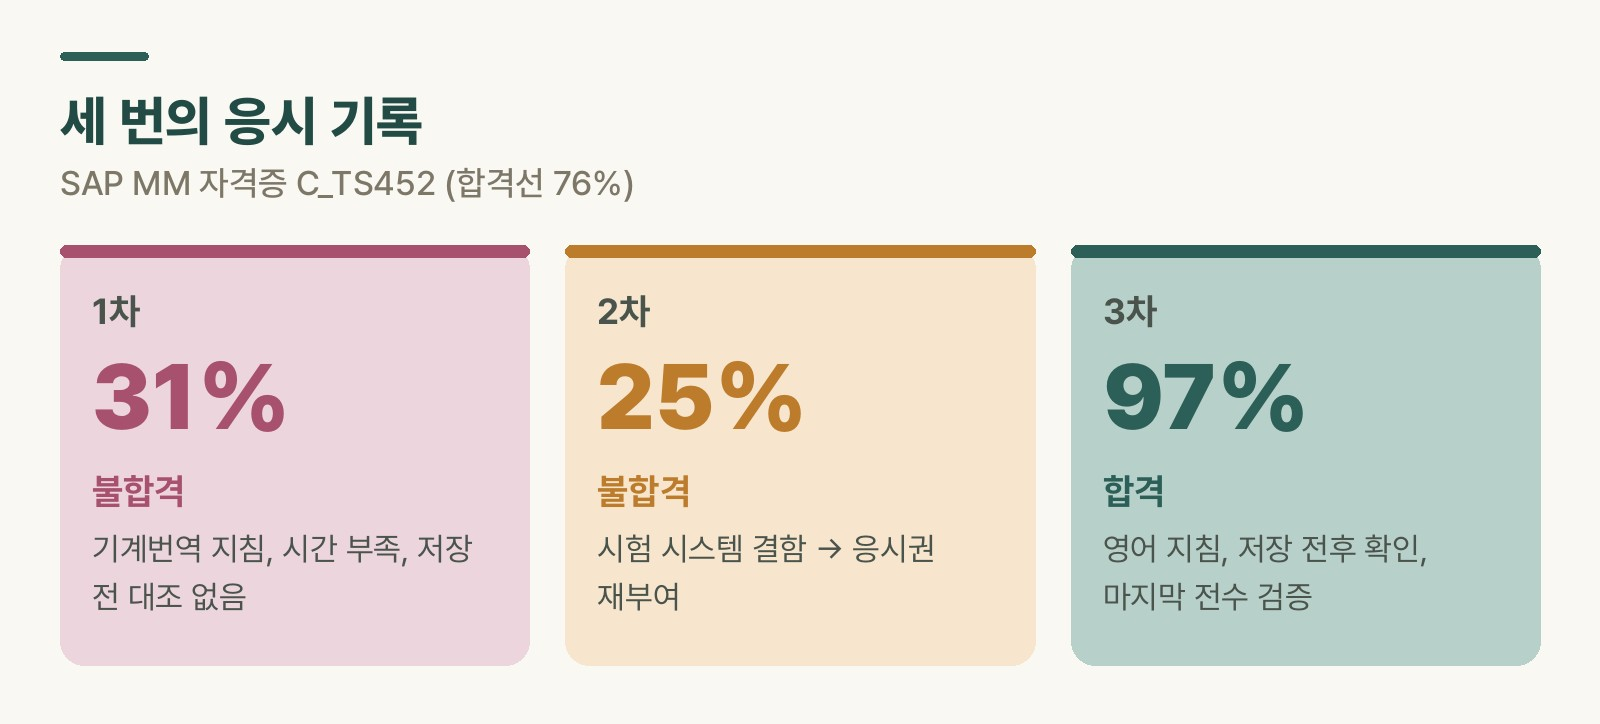
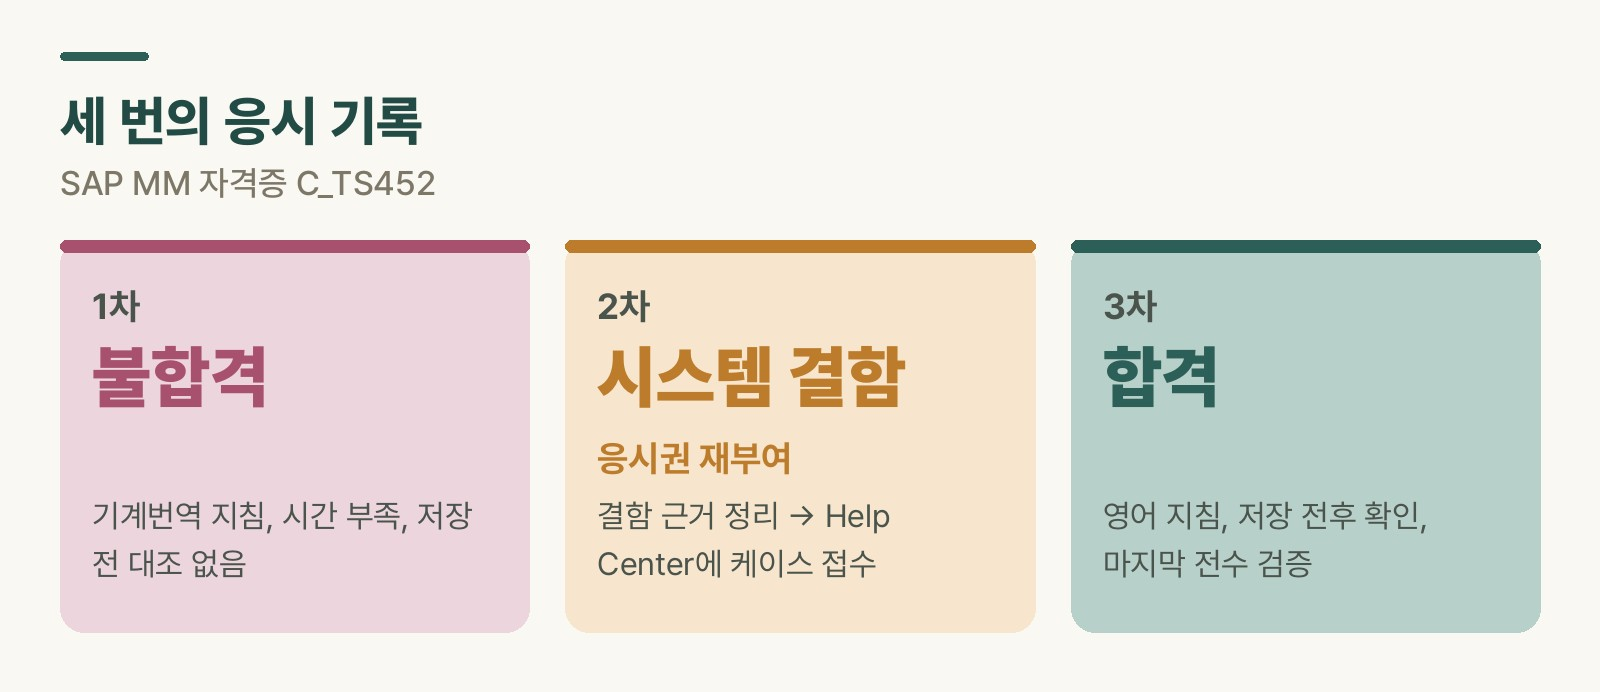
SAP MM C_TS452 series: drop 1st/2nd attempt scores, before/after diagram, wording fixes (#9)
Claude-Session: https://claude.ai/code/session_013sML9pAEqnrmzvpCSp2NBT

diff --git a/scripts/diagrams/gen_mm_c_ts452.py b/scripts/diagrams/gen_mm_c_ts452.py
@@ -56,79 +56,66 @@ def _wrap(c, text, font, width):
 # ---------------------------------------------------------------- 2편
 T_2_01 = {
     "ko": {
-        "title": "1차 시험이 31%에 그친 이유",
-        "sub": "몰라서가 아니라, 해내지 못해서",
-        "head": ("원인", "무슨 일이 있었나", "그 뒤로 바꾼 것"),
+        "title": "1차 이후 바꾼 세 가지",
+        "sub": "몰라서가 아니라, 해내는 방식이 문제였다",
+        "before": "1차 때", "after": "그 뒤로",
         "rows": [
-            ("기계번역 지침", "번역된 숫자와 구성이 원문과 다르게 읽혔다", "지침은 영어로 읽는다"),
-            ("한 과제에 쏠린 시간", "낯선 설정 화면에서 헤매며 한 과제에 약 100분", "3분 막히면 멈추고 판단, 막힌 화면은 따로 반복"),
-            ("저장 전 대조 없음", "0 하나 더, 필수 필드 누락, 습관대로 한 단계 추가", "Save 전에 지침과 필드를 1:1로 대조한다"),
+            ("지침", "한국어(기계번역) 지침으로 읽었다", "영어 원문 지침으로 읽는다"),
+            ("시간", "막힌 화면 하나를 오래 붙잡았다", "막힌 화면은 따로 모아 반복 연습한다"),
+            ("저장", "Save 후 바로 다음으로 넘어갔다", "저장 전 대조, 저장 후 조회로 확인한다"),
         ],
     },
     "en": {
-        "title": "Why my first attempt scored 31%",
-        "sub": "Not a knowledge gap, but an execution gap",
-        "head": ("Cause", "What happened", "What I changed"),
+        "title": "Three things I changed after the first attempt",
+        "sub": "Not a knowledge gap, but how I executed",
+        "before": "First attempt", "after": "Afterward",
         "rows": [
-            ("Machine-translated instructions",
-             "Numbers and structure read differently from the original",
-             "Read the instructions in English"),
-            ("Time sink",
-             "About 100 minutes lost in unfamiliar configuration screens",
-             "Stuck 3 minutes? Stop and decide; drill weak screens"),
-            ("No check before Save",
-             "An extra zero, a missing field, one step added out of habit",
-             "Compare every field with the instructions before saving"),
+            ("Instructions", "Read the machine-translated Korean version", "Read the original English instructions"),
+            ("Time", "Held on to one stuck screen for too long", "Collect stuck screens and drill them separately"),
+            ("Saving", "Pressed Save and moved straight on", "Check before saving, confirm on display after"),
         ],
     },
 }
 
 
 def build_2_01(lang, out):
-    """1차 31% — 원인 3가지를 '원인 / 무슨 일이 있었나 / 바꾼 것' 미니 표로."""
+    """전/후 비교형 — 1차 때 → 그 뒤로, 항목 3개."""
     t = T_2_01[lang]
-    title, sub, head, rows = t["title"], t["sub"], t["head"], t["rows"]
     W = 800
-    cols = [B.PAD, 250, 520]           # 열 시작 x
-    widths = [cols[1] - cols[0] - 20, cols[2] - cols[1] - 20, W - B.PAD - cols[2]]
+    lab_w = 120 if lang == "en" else 70
+    x_lab = B.PAD
+    x_b = B.PAD + lab_w + 10
+    arrow_w = 34
+    col_w = (W - B.PAD - x_b - arrow_w) / 2
+    x_a = x_b + col_w + arrow_w
     f_head = B.F("Bold", 17)
-    f_cause = B.F("ExtraBold", 19)
-    f_body = B.F("Regular", 17)
+    f_lab = B.F("ExtraBold", 18)
+    f_b = B.F("Regular", 17)
+    f_a = B.F("SemiBold", 17)
     lh = 25
-
     probe = _Canvas(W, 10)
-    wrapped = []
-    for r in rows:
-        cells = [_wrap(probe, r[0], f_cause, widths[0]),
-                 _wrap(probe, r[1], f_body, widths[1]),
-                 _wrap(probe, r[2], B.F("SemiBold", 17), widths[2])]
-        wrapped.append(cells)
-    row_hs = [max(len(x) for x in cells) * lh + 30 for cells in wrapped]
-
-    top = _banner_height(probe, title, sub)
-    head_h = 40
-    H = int(top + head_h + sum(row_hs) + 26)
+    wrapped = [(_wrap(probe, r[1], f_b, col_w - 28), _wrap(probe, r[2], f_a, col_w - 28)) for r in t["rows"]]
+    row_hs = [max(len(b), len(a)) * lh + 28 for b, a in wrapped]
+    top = _banner_height(probe, t["title"], t["sub"])
+    H = int(top + 36 + sum(row_hs) + 12 * len(row_hs) + 20)
     c = _Canvas(W, H)
-    y = B.banner_B(c, title, sub)
-
-    # 헤더
-    for i, h in enumerate(head):
-        col = B.BERRY_S[1] if i == 0 else (B.NEUT_S[1] if i == 1 else B.TEAL_S[1])
-        c.text((cols[i], y + 8), h.upper() if lang == "en" else h, f_head, fill=col)
-    y += head_h
-    c.line([B.PAD, y, W - B.PAD, y], fill=B.NEUT_S[2], width=1.5)
-
-    for (cells, rh) in zip(wrapped, row_hs):
-        ty = y + 15
-        for j, line in enumerate(cells[0]):
-            c.text((cols[0], ty + j * lh), line, f_cause, fill=B.BERRY_S[1])
-        for j, line in enumerate(cells[1]):
-            c.text((cols[1], ty + j * lh), line, f_body, fill=B.NEUT_S[1])
-        for j, line in enumerate(cells[2]):
-            c.text((cols[2], ty + j * lh), line, B.F("SemiBold", 17), fill=B.TEAL_S[1])
-        y += rh
-        c.line([B.PAD, y, W - B.PAD, y], fill=B.NEUT_S[4], width=1)
-
+    y = B.banner_B(c, t["title"], t["sub"])
+    c.text((x_b + 14, y), t["before"], f_head, fill=B.BERRY_S[1])
+    c.text((x_a + 14, y), t["after"], f_head, fill=B.TEAL_S[1])
+    y += 34
+    for (lab, _, _), (bl, al), rh in zip(t["rows"], wrapped, row_hs):
+        c.text((x_lab, y + 14), lab, f_lab, fill=B.NEUT_S[1])
+        c.rect([x_b, y, x_b + col_w, y + rh], fill=B.BERRY_S[5], radius=10)
+        c.rect([x_a, y, x_a + col_w, y + rh], fill=B.TEAL_S[5], radius=10)
+        for j, line in enumerate(bl):
+            c.text((x_b + 14, y + 14 + j * lh), line, f_b, fill=B.BERRY_S[0])
+        for j, line in enumerate(al):
+            c.text((x_a + 14, y + 14 + j * lh), line, f_a, fill=B.TEAL_S[0])
+        ay = y + rh / 2
+        ax0, ax1 = x_b + col_w + 7, x_a - 7
+        c.line([ax0, ay, ax1 - 6, ay], fill=B.NEUT_S[3], width=2)
+        c.polygon([ax1, ay, ax1 - 9, ay - 6, ax1 - 9, ay + 6], fill=B.NEUT_S[3])
+        y += rh + 12
     c.save(out)
 
 
@@ -210,20 +197,20 @@ def build_3_01(lang, out):
 T_0_01 = {
     "ko": {
         "title": "세 번의 응시 기록",
-        "sub": "SAP MM 자격증 C_TS452 (합격선 76%)",
+        "sub": "SAP MM 자격증 C_TS452",
         "cards": [
-            ("1차", "31%", "불합격", "기계번역 지침, 시간 부족, 저장 전 대조 없음", "berry"),
-            ("2차", "25%", "불합격", "시험 시스템 결함 → 응시권 재부여", "gold"),
-            ("3차", "97%", "합격", "영어 지침, 저장 전후 확인, 마지막 전수 검증", "teal"),
+            ("1차", "불합격", "", "기계번역 지침, 시간 부족, 저장 전 대조 없음", "berry"),
+            ("2차", "시스템 결함", "응시권 재부여", "결함 근거 정리 → Help Center에 케이스 접수", "gold"),
+            ("3차", "합격", "", "영어 지침, 저장 전후 확인, 마지막 전수 검증", "teal"),
         ],
     },
     "en": {
         "title": "Three exam attempts",
-        "sub": "SAP MM certification C_TS452 (pass mark 76%)",
+        "sub": "SAP MM certification C_TS452",
         "cards": [
-            ("1st", "31%", "Failed", "Machine translation, no time, no check before saving", "berry"),
-            ("2nd", "25%", "Failed", "Exam system defect, attempt reissued", "gold"),
-            ("3rd", "97%", "Passed", "English instructions, checks around saves, final review", "teal"),
+            ("1st", "Failed", "", "Machine translation, no time, no check before saving", "berry"),
+            ("2nd", "Defect", "Attempt reissued", "Evidence collected, case filed with the Help Center", "gold"),
+            ("3rd", "Passed", "", "English instructions, checks around saves, final review", "teal"),
         ],
     },
 }
@@ -238,12 +225,12 @@ def build_0_01(lang, out):
     gap = 18
     cw = (W - 2 * B.PAD - 2 * gap) / 3
     f_lab = B.F("Bold", 18)
-    f_score = B.F("Black", 46)
+    f_score = B.F("Black", 34)
     f_res = B.F("Bold", 18)
     f_note = B.F("Regular", 16)
     probe = _Canvas(W, 10)
     notes = [_wrap(probe, c[3], f_note, cw - 32) for c in t["cards"]]
-    card_h = 24 + 24 + 64 + 30 + max(len(n) for n in notes) * 24 + 20
+    card_h = 24 + 24 + 50 + 30 + max(len(n) for n in notes) * 24 + 20
     top = _banner_height(probe, t["title"], t["sub"])
     H = int(top + card_h + 30)
     c = _Canvas(W, H)
@@ -255,9 +242,10 @@ def build_0_01(lang, out):
         c.rect([x, y, x + cw, y + 6], fill=main, radius=3)
         c.text((x + 16, y + 22), lab, f_lab, fill=B.NEUT_S[1])
         c.text((x + 16, y + 48), score, f_score, fill=main)
-        c.text((x + 16, y + 112), res, f_res, fill=main)
+        if res:
+            c.text((x + 16, y + 98), res, f_res, fill=main)
         for j, line in enumerate(notes[i]):
-            c.text((x + 16, y + 142 + j * 24), line, f_note, fill=B.NEUT_S[1])
+            c.text((x + 16, y + 128 + j * 24), line, f_note, fill=B.NEUT_S[1])
     c.save(out)
 
 

diff --git a/src/content/blog/en/sap-mm-c-ts452-certification-2.md b/src/content/blog/en/sap-mm-c-ts452-certification-2.md
@@ -1,7 +1,7 @@
 ---
 title: "SAP MM certification C_TS452 first and second attempts failed: a wrong recipe and a broken kitchen"
 mapTitle: "SAP MM certification C_TS452 attempts 1 and 2"
-description: "My SAP MM certification (C_TS452) attempts at 31% and 25%: machine-translated instructions, time allocation, the trap of not checking before saving, and how I filed a support case after an exam system defect and got the attempt back."
+description: "My SAP MM certification (C_TS452) first and second attempts: machine-translated instructions, time allocation, the trap of not checking before saving, and how I filed a support case after an exam system defect and got the attempt back."
 pubDate: 2026-10-13
 category: "study"
 series: "SAP MM certification journey"
@@ -13,7 +13,7 @@ Hi, this is Rabbit! 🐰
 
 Have you ever cooked from a foreign cookbook run through a translator? Most of it reads fine, but every now and then "2 teaspoons of sugar" turns into "2 cups of sugar." You follow the recipe exactly, and the dish still falls apart. And some days, the recipe and your hands are ready, but the kitchen's gas valve is shut.
 
-That is what my first and second **SAP MM certification C_TS452** attempts were like: **31.43%** and then **25.71%**, against a 76% pass mark. This part covers what went wrong in those two failures, focusing on what someone preparing for the same exam can avoid.
+That is what my first and second **SAP MM certification C_TS452** attempts were like: both ended in a fail. This part covers what went wrong in those two failures, focusing on what someone preparing for the same exam can avoid.
 
 > **Three-line summary**
 > - In the first attempt, machine-translated instructions, time sunk into one task, and no check before saving turned half of the tasks I thought I had finished into zeros.
@@ -22,9 +22,9 @@ That is what my first and second **SAP MM certification C_TS452** attempts were 
 
 [[TOC]]
 
-## C_TS452 first attempt: why it scored 31%
+## C_TS452 first attempt: why it failed
 
-I took the first exam in September 2026. When I pressed submit, I had no idea it would be that low. There were tasks I never reached, but I thought most of what I did finish was correct. Working backward from the score, **nearly half of the tasks I thought I had finished scored zero**. There were three causes.
+I took the first exam in September 2026. When I pressed submit, I had no idea it would turn out that way. There were tasks I never reached, but I thought most of what I did finish was correct. Working backward from the score, **nearly half of the tasks I thought I had finished scored zero**. There were three causes.
 
 ### Machine-translated instructions
 
@@ -50,14 +50,14 @@ This was the most painful cause. Chased by the clock, I filled in a screen, pres
 
 The last one is like adding a seasoning that is not in the recipe because you think the customer will like it. **It is a trap that people who know the system well fall into most easily.**
 
-![Table of the three causes of my first SAP MM certification C_TS452 failure: machine-translated instructions fixed by reading in English, time sunk into one task fixed by a 3-minute check and drilling weak screens, and no check before saving fixed by comparing every field before Save](/images/sap-mm-c-ts452-certification-2-01.jpg)
-*Figure 1. The causes of my 31% first attempt and what I changed afterward*
+![Before-and-after comparison of three things I changed after my first SAP MM certification C_TS452 attempt: from machine-translated Korean instructions to the original English, from holding on to one stuck screen to drilling stuck screens separately, and from moving on right after Save to checking before saving and confirming on the display screen after](/images/sap-mm-c-ts452-certification-2-01.jpg)
+*Figure 1. Three things I changed after the first attempt*
 
 ## C_TS452 second attempt: when the exam system is broken
 
 In early October I went into my second attempt. As soon as I started the first task, an odd error appeared. I was trying to do an inventory-related step, and saving was blocked with a message to the effect that **a base setting was missing**, one that should already exist in the exam system. It was not something candidates create.
 
-Many tasks depended on that setting, so **I could not carry out most of them**. I did only what I could, and the result was 25.71%.
+Many tasks depended on that setting, so **I could not carry out most of them**. I did only what I could, and the result was a fail.
 
 ### My mistake, or an exam system defect?
 
@@ -71,14 +71,14 @@ In a hands-on exam, getting an earlier step wrong and blocking a later one is co
 
 ### How to file an SAP support case
 
-After the exam, I filed an <strong class="key">SAP support case</strong> through **Create a case** in the [SAP Learning help center](https://learning.sap.com/helpcenter). This is what I included.
+After the exam, I filed an <strong class="key">SAP support case</strong> through **Create a case** in the [SAP Learning Help Center](https://learning.sap.com/helpcenter). This is what I included.
 
 - The exam code and the date and time of the attempt
 - Where the error happened, the exact message, and a screenshot of the error screen
 - An explanation that the setting was outside the candidate's scope of work
 - Which tasks I could not carry out because of it
 
-Writing the situation precisely in English felt like a burden, so I described it to an AI to produce a draft, then checked it myself for anything inaccurate before submitting. It was handled faster than I expected, and **my attempt was reissued the same day**. A confirmed booking is hard to cancel or change, but when the cause is not the candidate's fault, such as an exam system defect, there is a way to get relief.
+To get the situation across precisely in English, I described it to an AI to produce a draft, then checked it myself for anything inaccurate before submitting. It was handled faster than I expected, and **my attempt was reissued the same day**. When the cause is not the candidate's fault, such as an exam system defect, you can get your attempt back this way.
 
 ### Why I did not retake it right away
 

diff --git a/src/content/blog/en/sap-mm-c-ts452-certification-3.md b/src/content/blog/en/sap-mm-c-ts452-certification-3.md
@@ -1,7 +1,7 @@
 ---
 title: "SAP MM certification C_TS452 practice and passing: the same dish, faster and more precisely"
 mapTitle: "SAP MM certification C_TS452 practice and passing"
-description: "How I passed the SAP MM certification (C_TS452) with 97.14% on my third attempt: practicing with English course material, where mistakes tend to happen in a hands-on exam, exam-day order and time allocation, and Stay Certified."
+description: "How I passed the SAP MM certification (C_TS452) on my third attempt: practicing with English course material, where mistakes tend to happen in a hands-on exam, exam-day order and time allocation, and Stay Certified."
 pubDate: 2026-10-15
 category: "study"
 series: "SAP MM certification journey"
@@ -13,12 +13,12 @@ Hi, this is Rabbit! 🐰
 
 The junior cook in a busy restaurant does not repeat the same dish hundreds of times because they don't know the recipe. They do it so that when the lunch rush hits, they can still plate the right amount within the time. Making a dish you already know **quickly and precisely** is a separate skill.
 
-My preparation after the [first two failed attempts](/en/blog/sap-mm-c-ts452-certification-2) went the same way. Rather than piling up knowledge, I focused on executing what I knew, by the instructions, on time. On my third attempt at the **SAP MM certification C_TS452**, I passed with **97.14%**. Everyone studies differently, so I keep my own approach brief here and focus on where mistakes tend to happen in this exam.
+My preparation after the [first two failed attempts](/en/blog/sap-mm-c-ts452-certification-2) went the same way. Rather than piling up knowledge, I focused on executing what I knew, by the instructions, on time. On my third attempt at the **SAP MM certification C_TS452**, I passed. Everyone studies differently, so I keep my own approach brief here and focus on where mistakes tend to happen in this exam.
 
 > **Three-line summary**
 > - I practiced the Learning Hub course exercises in English, timing myself as in the real exam.
 > - The spots where mistakes tend to happen in this exam are checking before saving, confirming after saving, and reusing transactions.
-> - On the third attempt I spent about 85 minutes on tasks and about 35 on verification, submitted after 2 hours, and passed with 97.14%.
+> - On the third attempt I spent about 85 minutes on tasks and about 35 on verification, submitted after 2 hours, and passed.
 
 [[TOC]]
 
@@ -83,7 +83,7 @@ My next goal is my day job, production planning: **PP** (C_TS422). I can now see
 
 ## Rabbit's Takeaway
 
-What three attempts left me with was simple. A hands-on exam tests what you can do, not what you know. Read the instructions in the original, enter values as instructed, and check before and after you save. ==Without the 31% on my first attempt, there would have been no 97% on my third.== There is a reason the junior cook repeats the same dish 😎
+What three attempts left me with was simple. A hands-on exam tests what you can do, not what you know. Read the instructions in the original, enter values as instructed, and check before and after you save. ==Without the failure on my first attempt, there would have been no pass on my third.== There is a reason the junior cook repeats the same dish 😎
 
 ---
 

diff --git a/src/content/blog/en/sap-mm-c-ts452-certification.md b/src/content/blog/en/sap-mm-c-ts452-certification.md
@@ -1,7 +1,7 @@
 ---
 title: "SAP MM certification C_TS452 exam review: three trips into the practice kitchen"
 mapTitle: "SAP MM certification C_TS452 exam review"
-description: "A complete review of passing the SAP MM certification (C_TS452): three attempts at 31%, 25%, and 97%, the exam structure, why I failed, handling an exam system defect, and how I prepared to pass."
+description: "A complete review of passing the SAP MM certification (C_TS452): three attempts, the exam structure, why I failed, handling an exam system defect, and how I prepared to pass."
 pubDate: 2026-10-18
 category: "study"
 series: "SAP MM certification journey"
@@ -13,18 +13,18 @@ Hi, this is Rabbit! 🐰
 
 The same dish feels different the first time you walk into a kitchen and the third time. The recipe has not changed, but you start to see what to take out first and where to taste along the way.
 
-I passed the **SAP MM certification C_TS452** on my third attempt: 31%, 25%, and then 97%. Since it is a hands-on exam where you complete tasks in a real system, there was quite a gap between knowing the material and executing it exactly in the exam room. This post pulls the three-part series together in one place.
+I passed the **SAP MM certification C_TS452** on my third attempt. Since it is a hands-on exam where you complete tasks in a real system, there was quite a gap between knowing the material and executing it exactly in the exam room. This post pulls the three-part series together in one place.
 
 > **Three-line summary**
 > - C_TS452 is a hands-on (SyBA) certification for S/4HANA sourcing and procurement, graded only on whether saved values match the instructions.
 > - I failed the first attempt because of machine-translated instructions and no check before saving, and the second because of an exam system defect.
-> - On the third attempt, English instructions, checks before and after saving, and a final full review got me 97.14%.
+> - On the third attempt, English instructions, checks before and after saving, and a final full review got me a pass.
 
 [[TOC]]
 
 ## Three exam attempts
 
-![Three SAP MM certification C_TS452 attempts: first 31% failed (machine translation, no time, no check before saving), second 25% failed (exam system defect, attempt reissued), third 97% passed (English instructions, checks around saves, final review)](/images/sap-mm-c-ts452-certification-0-01.jpg)
+![Three SAP MM certification C_TS452 attempts: first failed (machine translation, no time, no check before saving), second hit an exam system defect and the attempt was reissued (evidence collected, case filed with the Help Center), third passed (English instructions, checks around saves, final review)](/images/sap-mm-c-ts452-certification-0-01.jpg)
 *Figure 1. Three exam attempts. The exam version was C_TS452_2601, and the pass mark was 76%.*
 
 ## Series contents

diff --git a/src/content/blog/ko/sap-mm-c-ts452-certification-1.md b/src/content/blog/ko/sap-mm-c-ts452-certification-1.md
@@ -49,7 +49,7 @@ tags: ["SAP학습자료", "SAP자격증", "SAPMM", "C_TS452"]
 ![SAP Certification Hub의 C_TS452 응시 화면. System Based Assessment 3시간, 12개월 안에 최대 4회 응시 안내와 남은 응시권 3 of 4가 표시돼 있다](/images/sap-mm-c-ts452-certification-1-01.jpg)
 *그림 1. Certification Hub 화면. 같은 자격증은 12개월 안에 최대 4회까지 응시할 수 있습니다.*
 
-응시권은 예약만으로는 줄지 않고, 확정한 일시에 시험을 **시작하는 순간** 하나가 차감됩니다. 여러 과목을 생각한다면 과목 수와 응시권 개수를 먼저 맞춰보는 편이 안전합니다.
+응시권은 예약만으로는 줄지 않고, 확정한 일시에 시험을 **시작하는 순간** 하나가 차감됩니다. 예약하고 시험을 보지 못하면 차감되지 않습니다. 실제로 첫 예약 때 실습 서버에 접속되지 않아 시험을 보지 못했는데, 응시권은 그대로 남아 있었습니다. 여러 과목을 생각한다면 과목 수와 응시권 개수를 먼저 맞춰보는 편이 안전합니다.
 
 제 경우에는 실습 서버가 특히 절실했습니다. 실무에서는 SAP GUI만 써왔기 때문에 **Fiori**(SAP의 웹 기반 화면)는 거의 만져본 적이 없었습니다. 시험은 Fiori 앱과 GUI 트랜잭션을 함께 쓰기 때문에, 회사 시스템에서는 연습할 수 없는 화면을 마음껏 눌러볼 환경이 필요했습니다.
 

diff --git a/src/content/blog/en/sap-mm-c-ts452-certification-1.md b/src/content/blog/en/sap-mm-c-ts452-certification-1.md
@@ -49,7 +49,7 @@ For a hands-on exam, Learning Hub matters even more.
 ![SAP Certification Hub page for C_TS452, showing a 3-hour System Based Assessment, a maximum of 4 attempts within 12 months, and 3 of 4 attempts left](/images/sap-mm-c-ts452-certification-1-01.jpg)
 *Figure 1. Certification Hub. You can take the same certification up to four times within 12 months.*
 
-Booking a slot does not use up an attempt; one is deducted **the moment you start** the exam at the confirmed date and time. If you are planning several certifications, it is safer to match the number of exams to your attempts first.
+Booking a slot does not use up an attempt; one is deducted **the moment you start** the exam at the confirmed date and time. If you book but cannot take the exam, no attempt is deducted. On my first booking, I could not connect to the exam server and never got to take the exam, and my attempt was still there afterward. If you are planning several certifications, it is safer to match the number of exams to your attempts first.
 
 In my case the practice system mattered especially. At work I had only ever used SAP GUI, so I had barely touched **Fiori** (SAP's web-based interface). The exam uses Fiori apps and GUI transactions together, so I needed an environment where I could freely click through screens I could not practice on at work.
 
